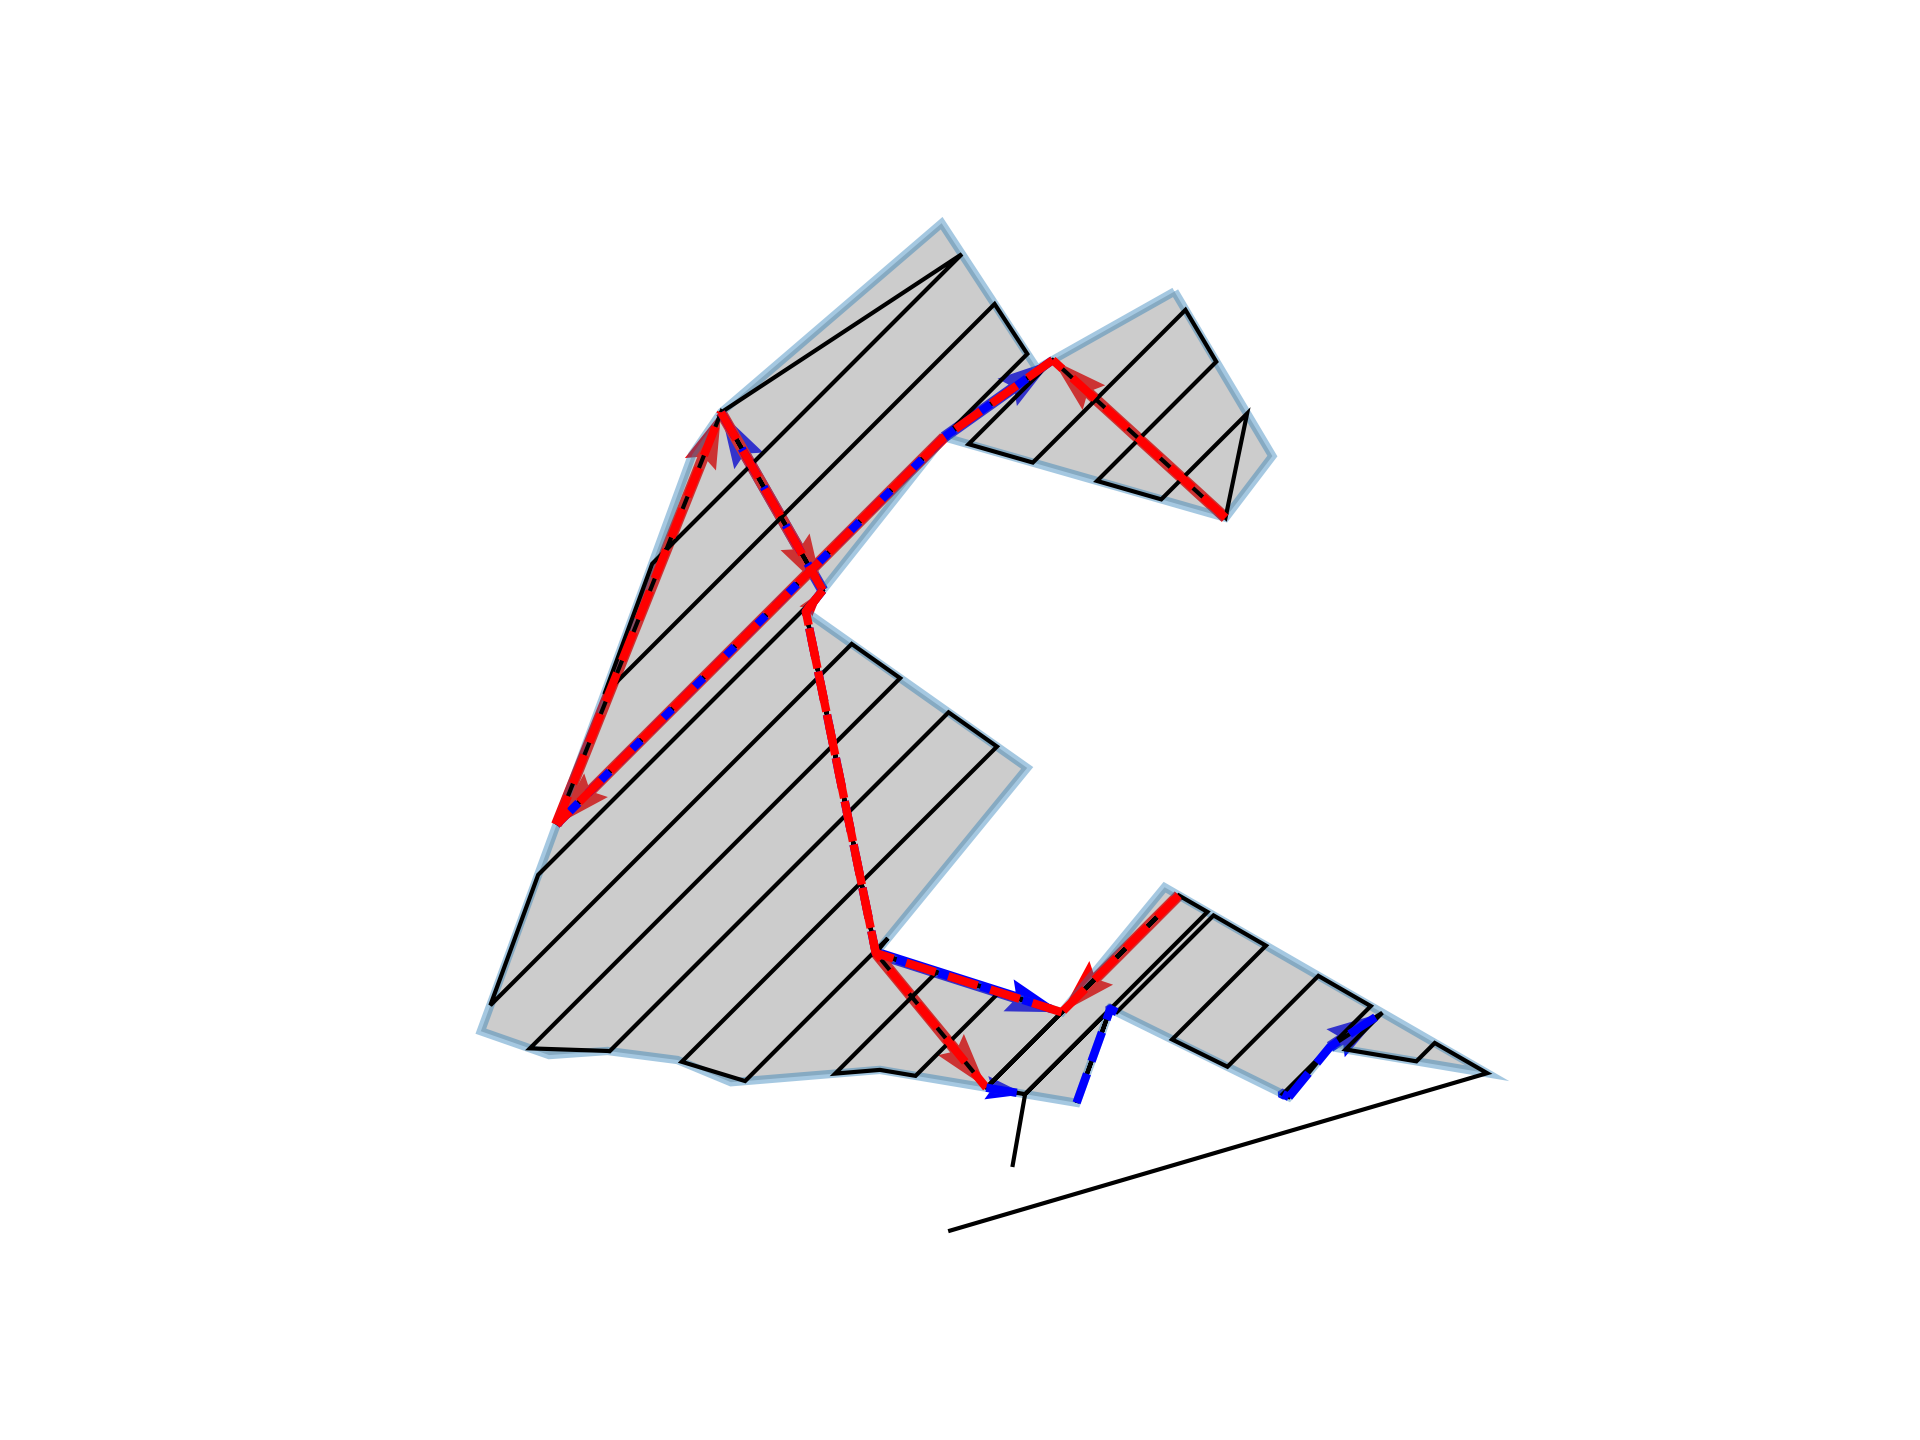
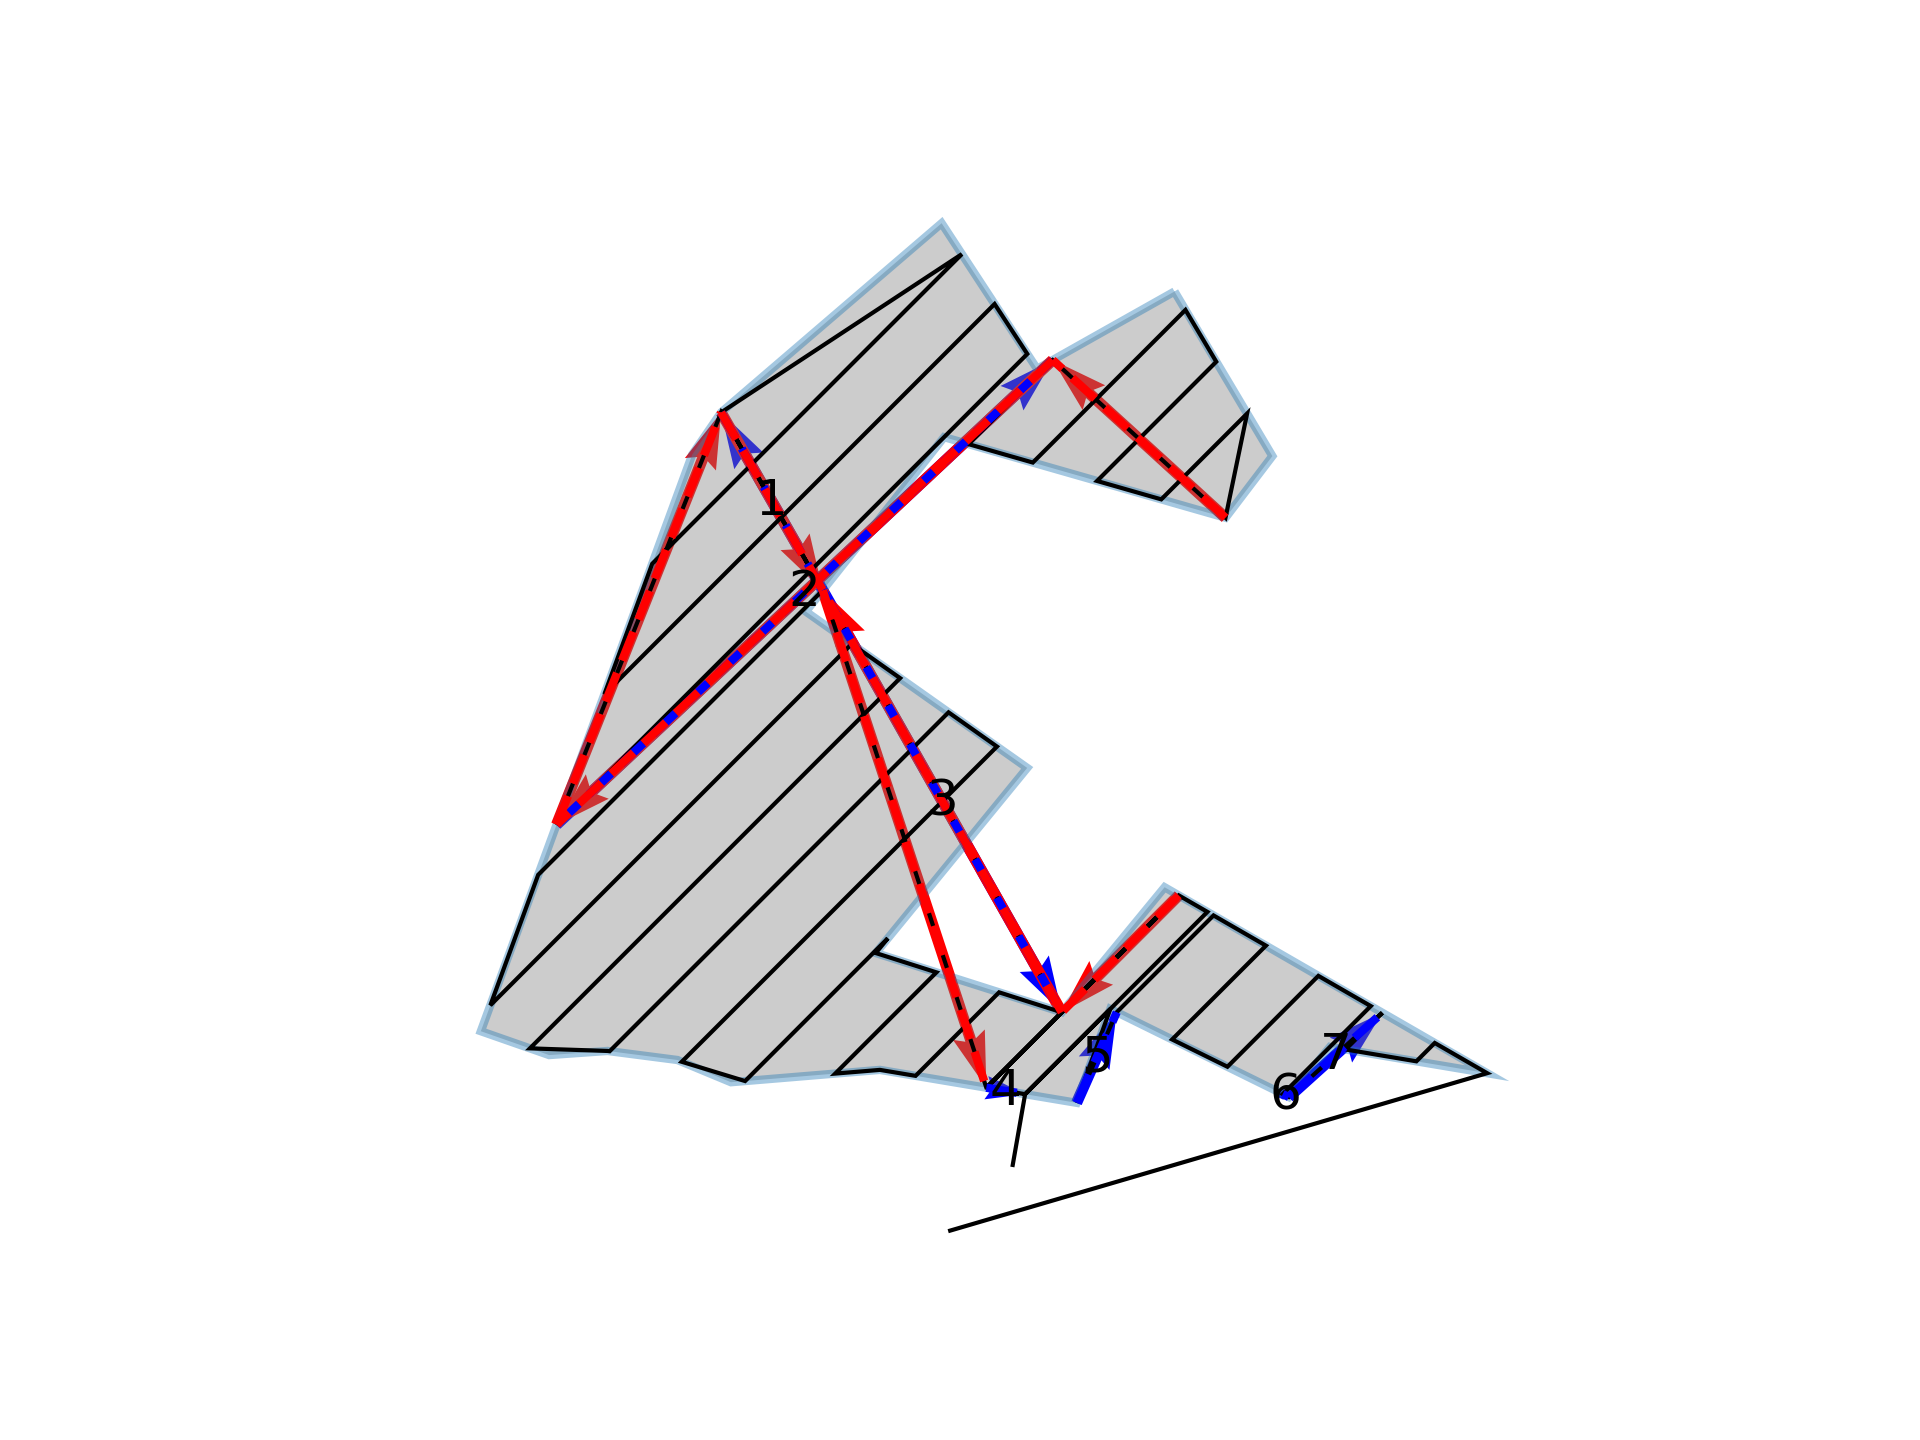
print text，connect不显示

diff --git a/trajgenpy/Geometries.py b/trajgenpy/Geometries.py
@@ -95,6 +95,8 @@ class DFSearcher:
         self.sub_polys = sub_polys
         self.visited = set()
         self.final_path = []
+        self.red_cnt = 0
+        self.blue_cnt = 0
 
     def connect(self, polygon, point1, point2):
         vertices = list(polygon.exterior.coords)[0:-1]
@@ -115,6 +117,9 @@ class DFSearcher:
         path_length = nx.dijkstra_path_length(G, source=point1_index, target=point2_index, weight='weight')
 
         inter_points = [all_points[i] for i in path]
+
+        if len(inter_points) > 2:
+            inter_points = [inter_points[0], inter_points[-1]]
 
         return inter_points, path_length
 
@@ -233,6 +238,13 @@ class DFSearcher:
             plt.quiver(x[-2], y[-2], x[-1] - x[-2], y[-1] - y[-2],
             angles='xy', scale_units='xy', scale=1, color='red')
 
+            # 在箭头中间添加序号
+            self.red_cnt += 1
+            mid_x = (x[0] + x[-1]) / 2
+            mid_y = (y[0] + y[-1]) / 2
+            #plt.text(mid_x, mid_y, str(self.red_cnt), fontsize=12, ha='center', va='center', color='black')
+
+
         plt.show()
 
     def forward_plot_multilines(self, multilines):
@@ -245,6 +257,12 @@ class DFSearcher:
             # 添加箭头
             plt.quiver(x[-2], y[-2], x[-1] - x[-2], y[-1] - y[-2],
             angles='xy', scale_units='xy', scale=1, color='blue')
+            # 在箭头中间添加序号
+            self.blue_cnt += 1
+            mid_x = (x[0] + x[-1]) / 2
+            mid_y = (y[0] + y[-1]) / 2
+            plt.text(mid_x, mid_y, str(self.blue_cnt), fontsize=12, ha='center', va='center', color='black')
+
 
         plt.show()
 
